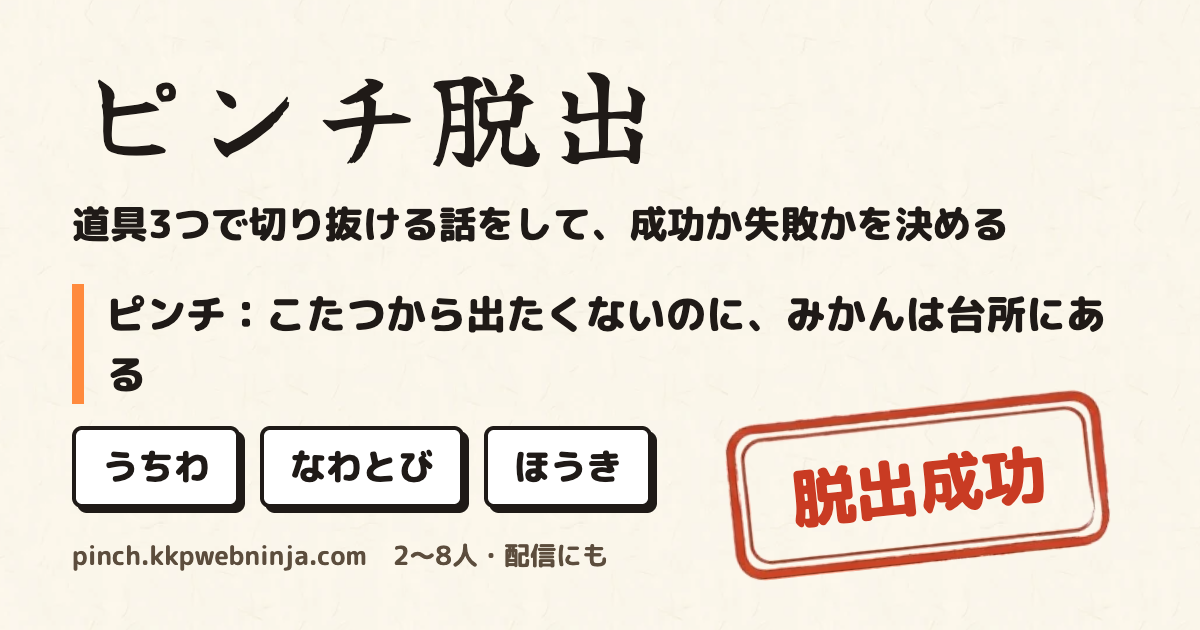
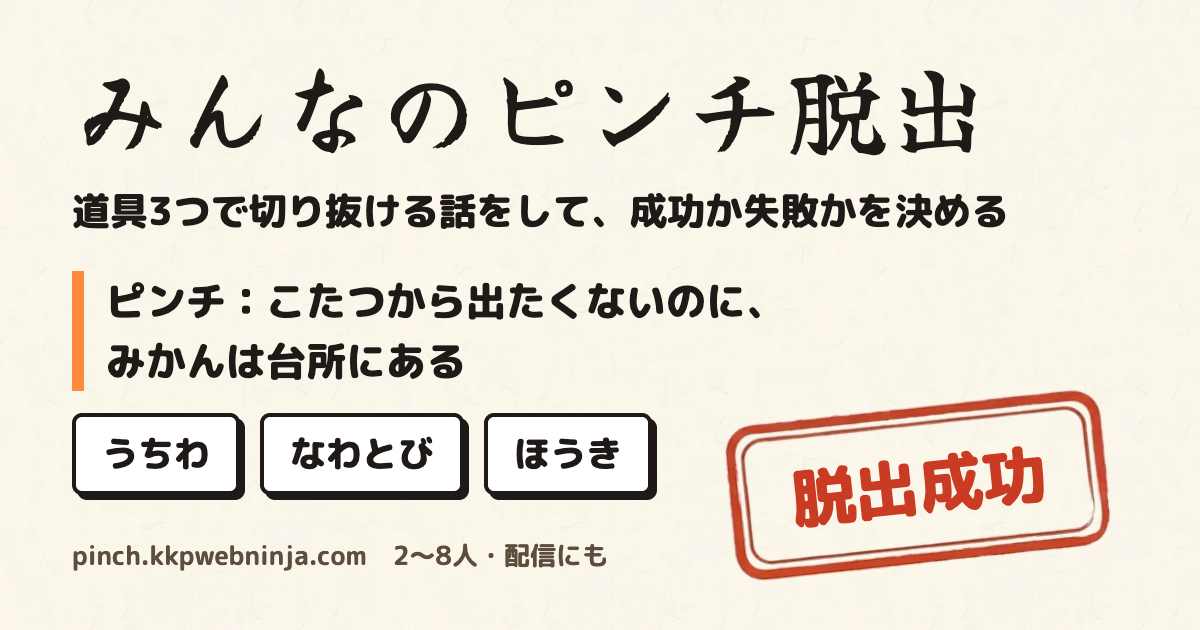
サイト名を「みんなのピンチ脱出」に・道具名の折れ方・配信の操作ページの字を14px以上に
- title/description/og/twitter/JSON-LD/h1/ヘッダー/haishin/view/ogp.png を「みんなのピンチ脱出」にそろえた
- 道具名は word-break:keep-all ＋ 折り目（odai.js の BR 表で <wbr>）。入らないときだけ字を小さくする
- 配信モードの操作ページを幅960で組み直し（設定は2列・結果は行を詰めた）。4サイズとも主な字14px以上・1画面

diff --git a/index.html b/index.html
@@ -3,8 +3,8 @@
 <head>
 <meta charset="UTF-8">
 <meta name="viewport" content="width=device-width, initial-scale=1.0">
-<title>ピンチ脱出ゲーム｜場面と道具3つで切り抜ける話をする・お題80場面（無料）</title>
-<meta name="description" content="ピンチ脱出ゲームを無料で。ピンチの場面と使える道具3つが出たら、道具で切り抜ける話をして、聞いた人が「成功／失敗」を決めます。場面80・道具120（定番・学校・おうち・年末年始・ファンタジー）。2〜8人でスマホを回して遊べて、配信ではOBSに映せます。登録不要。">
+<title>みんなのピンチ脱出｜場面と道具3つで切り抜ける話をするゲーム（無料）</title>
+<meta name="description" content="みんなのピンチ脱出は、ピンチの場面と使える道具3つで切り抜ける話をして、聞いた人が「成功／失敗」を決める無料のゲームです。場面80・道具120（定番・学校・おうち・年末年始・ファンタジー）。2〜8人でスマホを回して遊べて、配信ではOBSに映せます。登録不要。">
 <meta name="theme-color" content="#ff8a3d">
 <link rel="canonical" href="https://pinch.kkpwebninja.com/">
 <!-- WEBNINJA_UNIFIED_FAVICON -->
@@ -12,20 +12,21 @@
 <link rel="icon" type="image/png" sizes="192x192" href="/favicon-192.png">
 <link rel="apple-touch-icon" sizes="180x180" href="/apple-touch-icon.png">
 
-<meta property="og:title" content="ピンチ脱出ゲーム｜道具3つで切り抜ける話をする">
+<meta property="og:title" content="みんなのピンチ脱出｜道具3つで切り抜ける話をする">
 <meta property="og:description" content="ピンチの場面と道具3つで脱出の話をして、聞いた人が成功か失敗かを決める。場面80・道具120。2〜8人・配信にも。">
 <meta property="og:type" content="website">
 <meta property="og:url" content="https://pinch.kkpwebninja.com/">
-<meta property="og:site_name" content="ピンチ脱出">
+<meta property="og:site_name" content="みんなのピンチ脱出">
 <meta property="og:image" content="https://pinch.kkpwebninja.com/ogp.png?d=20261021">
 <meta name="twitter:card" content="summary_large_image">
+<meta name="twitter:title" content="みんなのピンチ脱出｜道具3つで切り抜ける話をする">
 <meta name="twitter:image" content="https://pinch.kkpwebninja.com/ogp.png?d=20261021">
 
 <script type="application/ld+json">
 {
   "@context": "https://schema.org",
   "@type": "WebApplication",
-  "name": "ピンチ脱出",
+  "name": "みんなのピンチ脱出",
   "url": "https://pinch.kkpwebninja.com/",
   "description": "ピンチの場面と使える道具3つが出る。道具で切り抜ける話をして、聞いた人が成功か失敗かを決める話のゲーム。2〜8人でスマホを回すか、配信でOBSに映して遊ぶ。",
   "applicationCategory": "GameApplication",
@@ -149,8 +150,7 @@ h1.pc-h1{margin:24px 0 8px;font-family:var(--k-brush);font-weight:400;font-size:
 .pc-scene p.wait{font-family:var(--k-body);font-size:16px;font-weight:700;color:var(--k-text-2);min-height:0}
 .pc-toolh{display:flex;align-items:flex-end;justify-content:space-between;gap:8px;margin-bottom:6px}
 .pc-tools{display:grid;grid-template-columns:repeat(3,minmax(0,1fr));gap:8px}
-.pc-tool{display:grid;place-items:center;min-height:72px;padding:6px;border:2px solid var(--k-sumi);border-radius:var(--k-r);background:#fff;font-family:var(--k-bold);font-size:17px;line-height:1.25;text-align:center;word-break:auto-phrase;overflow-wrap:anywhere}
-.pc-tool.long{font-size:15px}
+.pc-tool{display:grid;place-items:center;min-height:72px;padding:6px;border:2px solid var(--k-sumi);border-radius:var(--k-r);background:#fff;font-family:var(--k-bold);font-size:17px;line-height:1.25;text-align:center;word-break:keep-all;overflow-wrap:normal}
 .pc-tool.q{color:var(--k-text-2);background:var(--k-kinari)}
 .pc-link{min-height:44px;padding:0 4px;border:0;background:none;color:var(--k-sumi);font:inherit;font-size:14px;font-weight:700;text-decoration:underline;text-underline-offset:3px;cursor:pointer}
 .pc-link[disabled]{color:var(--k-text-2);text-decoration:none;cursor:default}
@@ -209,7 +209,6 @@ h1.pc-h1{margin:24px 0 8px;font-family:var(--k-brush);font-weight:400;font-size:
   .pc-names{grid-template-columns:1fr 1fr 1fr 1fr}
   .pc-scene p{font-size:26px}
   .pc-tool{font-size:19px;min-height:84px}
-  .pc-tool.long{font-size:18px}
   h1.pc-h1{font-size:38px}
 }
 @media (max-width:767px){
@@ -231,12 +230,25 @@ h1.pc-h1{margin:24px 0 8px;font-family:var(--k-brush);font-weight:400;font-size:
 body.stream .pc-about,body.stream #uniFoot,body.stream .pc-adwrap{display:none!important}
 body.stream #app{zoom:var(--z,1)}
 body.stream .pc-start{position:static;margin:16px 0 0;padding:0;border:0;background:none}
-body.stream.in-game #app{width:1200px;max-width:none;margin:0 auto}
+body.stream #app{width:960px;max-width:none;margin:0 auto;box-sizing:border-box}
+/* 設定は2列（左：遊び方・タイトル／右：お題・話の数）。字は14px以上のまま、960x740 で縮めずに入る高さ */
+body.stream #setup{display:grid;grid-template-columns:1fr 1fr;column-gap:32px;align-items:start}
+body.stream #setup>h1,body.stream #setup>.pc-lead,body.stream #resumeBox,body.stream #streamBox,body.stream #setup>.pc-start{grid-column:1/-1}
+body.stream #setup h1.pc-h1{margin:14px 0 4px}
+body.stream #setup .pc-lead{margin:0 0 4px}
+body.stream #setup .pc-sec{margin:12px 0 0}
+body.stream #streamBox{margin:16px 0 0;padding:10px 0}
+body.stream .pc-start{margin:12px 0 0}
+/* 結果：7話でも縮めずに入るよう行を詰める */
+body.stream .pc-res .k-result{margin:8px 0 4px}
+body.stream .pc-com{margin:0 0 8px}
+body.stream .pc-rh{margin:8px 0 0}
+body.stream .pc-log button{min-height:44px;padding:2px 4px}
+body.stream .pc-acts{margin:12px 0 0}
 body.stream.in-game .pc-top{display:none}
-body.stream.in-game .pc-grid{display:grid;grid-template-columns:1.35fr 1fr;gap:32px;align-items:start;padding-top:8px}
+body.stream.in-game .pc-grid{display:grid;grid-template-columns:1.4fr 1fr;gap:24px;align-items:start;padding-top:8px}
 body.stream.in-game .pc-scene p{font-size:30px}
 body.stream.in-game .pc-tool{font-size:22px;min-height:96px}
-body.stream.in-game .pc-tool.long{font-size:20px}
 body.stream .pc-bar{position:static;margin:16px 0 8px;padding:0;border:0;background:none}
 body.stream .pc-colB{padding-top:16px}
 .pc-titleshow{margin:0 0 4px;font-family:var(--k-bold);font-size:18px}
@@ -247,11 +259,11 @@ body.stream .pc-colB{padding-top:16px}
 </head>
 <body class="k-page">
 <div class="pc-wrap" id="app">
-  <header class="pc-top"><a href="/">ピンチ脱出</a><small id="modeTag">登録不要・無料</small></header>
+  <header class="pc-top"><a href="/">みんなのピンチ脱出</a><small id="modeTag">登録不要・無料</small></header>
 
   <!-- ===== 設定 ===== -->
   <section id="setup">
-    <h1 class="pc-h1">ピンチ脱出</h1>
+    <h1 class="pc-h1">みんなのピンチ脱出</h1>
     <p class="pc-lead" id="lead">ピンチの場面と道具3つが出ます。道具で切り抜ける話をして、聞いた人が「成功」か「失敗」を決めます。</p>
     <div class="pc-resume" id="resumeBox" hidden><p id="resumeT"></p><button type="button" class="k-btn k-btn-main k-btn-sm" id="resumeGo">続きから</button><button type="button" class="k-btn k-btn-sub k-btn-sm" id="resumeDel">消して新しく</button></div>
 
@@ -347,7 +359,7 @@ body.stream .pc-colB{padding-top:16px}
 
   <!-- ===== 読みもの（設定の画面・ふだんのモードだけ） ===== -->
   <article class="pc-about" id="about">
-    <h2 class="k-h2">ピンチ脱出の遊び方</h2>
+    <h2 class="k-h2">みんなのピンチ脱出の遊び方</h2>
     <ol class="k-steps">
       <li><b>ピンチを出す。</b>場面と、使える道具が3つ出ます。</li>
       <li><b>脱出の話をする。</b>話す人が、道具を使ってどう切り抜けたかを1〜2分で話します。道具は全部使わなくてもかまいません。</li>
@@ -637,7 +649,8 @@ body.stream .pc-colB{padding-top:16px}
       $('gTools').innerHTML = '<div class="pc-tool q">？</div><div class="pc-tool q">？</div><div class="pc-tool q">？</div>';
     } else {
       sc.className = ''; sc.textContent = sceneText(G.scene);
-      $('gTools').innerHTML = G.tools.map(function(t){ return '<div class="pc-tool' + (String(t).length >= 6 ? ' long' : '') + '">' + esc(t) + '</div>'; }).join('');
+      $('gTools').innerHTML = G.tools.map(function(t){ return '<div class="pc-tool">' + window.PC_toolHtml(t) + '</div>'; }).join('');
+      fitTools();
       if (lastTk !== G.tk) { [].forEach.call($('gTools').children, function(el){ reveal(el, 'k-reveal-fuda'); }); }
     }
     lastTk = G.tk;
@@ -727,11 +740,14 @@ body.stream .pc-colB{padding-top:16px}
   function fit(){
     var r = document.documentElement;
     if (!S.stream || innerWidth < 768) { r.style.removeProperty('--z'); return; }
-    var base = SCREEN === 'setup' ? 760 : 1240;
+    var base = 960; // 配信モードは幅960で組む（960x740 で縮めず、字が14px以上）
     var z = Math.min(innerWidth / base, 1.5); r.style.setProperty('--z', z.toFixed(3));
     for (var i = 0; i < 40 && r.scrollHeight > innerHeight + 1 && z > 0.3; i++) { z *= 0.96; r.style.setProperty('--z', z.toFixed(3)); }
   }
-  window.addEventListener('resize', function(){ clearTimeout(fit.t); fit.t = setTimeout(fit, 120); });
+  window.addEventListener('resize', function(){ clearTimeout(fit.t); fit.t = setTimeout(function(){ fitTools(); fit(); }, 120); });
+  // 道具の字：2行に入らない・幅をはみ出すときだけ小さくする（14pxまで）
+  function fitTools(){ if (G && G.phase !== 'ready') window.PC_fitTools($('gTools').children, 2, 14, 1); }
+  if (document.fonts && document.fonts.ready) document.fonts.ready.then(function(){ fitTools(); fit(); });
 
   // ===== はじめに =====
   if (S.stream) { document.body.classList.add('stream'); $('modeTag').textContent = '配信モード（広告なし）'; }

diff --git a/haishin/index.html b/haishin/index.html
@@ -3,19 +3,20 @@
 <head>
 <meta charset="UTF-8">
 <meta name="viewport" content="width=device-width, initial-scale=1">
-<title>配信・実況でピンチ脱出ゲームをする方法｜押すのは3回・OBSに映せる（無料）</title>
+<title>配信・実況でみんなのピンチ脱出を遊ぶ方法｜押すのは3回・OBSに映せる（無料）</title>
 <meta name="description" content="雑談配信のコーナーで、ピンチの場面と道具3つから脱出の話をして、リスナーがコメントで成功か失敗かを決める遊び方。押すのは「ピンチを出す」「判定タイムにする」「ハンコ」の3回。表示ページをOBSに取り込めます。広告なし・登録不要。">
 <link rel="canonical" href="https://pinch.kkpwebninja.com/haishin/">
-<meta property="og:title" content="配信・実況でピンチ脱出ゲームをする方法">
+<meta property="og:title" content="配信・実況でみんなのピンチ脱出を遊ぶ方法">
 <meta property="og:description" content="ピンチの場面と道具3つで脱出の話をして、リスナーがコメントで判定。押すのは3回・OBSに映せる。">
 <meta property="og:type" content="article">
 <meta property="og:url" content="https://pinch.kkpwebninja.com/haishin/">
-<meta property="og:site_name" content="ピンチ脱出">
+<meta property="og:site_name" content="みんなのピンチ脱出">
 <meta property="og:image" content="https://pinch.kkpwebninja.com/ogp.png?d=20261021">
 <meta name="twitter:card" content="summary_large_image">
+<meta name="twitter:title" content="配信・実況でみんなのピンチ脱出を遊ぶ方法">
 <link rel="icon" type="image/png" sizes="32x32" href="/favicon.png">
 <link rel="apple-touch-icon" sizes="180x180" href="/apple-touch-icon.png">
-<script type="application/ld+json">{"@context":"https://schema.org","@type":"Article","headline":"配信・実況でピンチ脱出ゲームをする方法","datePublished":"2026-10-21","dateModified":"2026-10-21","author":{"@type":"Organization","name":"web忍者の砦"},"publisher":{"@type":"Organization","name":"web忍者の砦"},"mainEntityOfPage":"https://pinch.kkpwebninja.com/haishin/"}</script>
+<script type="application/ld+json">{"@context":"https://schema.org","@type":"Article","headline":"配信・実況でみんなのピンチ脱出を遊ぶ方法","datePublished":"2026-10-21","dateModified":"2026-10-21","author":{"@type":"Organization","name":"web忍者の砦"},"publisher":{"@type":"Organization","name":"web忍者の砦"},"mainEntityOfPage":"https://pinch.kkpwebninja.com/haishin/"}</script>
 <script async src="https://www.googletagmanager.com/gtag/js?id=G-2LM85GJN0L"></script>
 <script>
   window.dataLayer = window.dataLayer || [];
@@ -55,7 +56,7 @@ a{color:#1565c0}
 <body class="k-page">
 <div class="wrap">
 
-<h1>配信・実況で使う方へ<span class="c">ピンチ脱出</span></h1>
+<h1>配信・実況で使う方へ<span class="c">みんなのピンチ脱出</span></h1>
 <p class="upd">更新日 <time datetime="2026-10-21">2026-10-21</time></p>
 <p class="lead">雑談配信の10〜15分のコーナー向けです。ピンチの場面と道具3つが出たら、配信者が脱出の話をして、リスナーがコメントで「成功」か「失敗」を決めます。インストールも登録もいりません。</p>
 
@@ -67,7 +68,7 @@ a{color:#1565c0}
 <h2>配信の前に（1分）</h2>
 <ol class="steps">
 <li>パソコンで <a href="https://pinch.kkpwebninja.com/?mode=stream">pinch.kkpwebninja.com/?mode=stream</a> を開きます（遊び方で「配信する」を選んでも同じ）。広告が消えます</li>
-<li>タイトル（「〇〇のピンチ脱出」の〇〇）、お題の種類、話の数（はじめは5話）を決めます</li>
+<li>タイトル（「〇〇のピンチ脱出」の〇〇。空なら「みんな」）、お題の種類、話の数（はじめは5話）を決めます</li>
 <li>「表示ページを別ウィンドウで開く」を押し、OBS の<b>「ウィンドウキャプチャ」</b>でそのウィンドウを取り込みます。表示ページは最小化しないでください（止まります）。OBS の「ブラウザソース」では操作の画面とつながりません</li>
 </ol>
 
@@ -89,7 +90,7 @@ a{color:#1565c0}
 <h2>配信で使うときの条件</h2>
 <p>許諾の申請はいりません。収益化もできます。概要欄にサイト名「web忍者の砦」とURL（https://pinch.kkpwebninja.com/）を書いてください。使うときは<a href="https://kkpwebninja.com/otoiawase" target="_blank" rel="noopener">お問い合わせ</a>か X（<a href="https://x.com/kkp_webninja" target="_blank" rel="noopener">@kkp_webninja</a>）で一言いただけると助かります。ご要望があれば、優先してアップデートします。くわしくは<a href="https://kkpwebninja.com/guidelines">配信・紹介・掲載のガイドライン</a>へ。場面と道具はすべてこのサイトのオリジナルです。</p>
 
-<p style="margin-top:2rem"><a class="cta" href="https://pinch.kkpwebninja.com/">ピンチ脱出を開く</a></p>
+<p style="margin-top:2rem"><a class="cta" href="https://pinch.kkpwebninja.com/">みんなのピンチ脱出を開く</a></p>
 
 </div>
 <!-- WEBNINJA_UNIFIED_FOOTER -->

diff --git a/view/index.html b/view/index.html
@@ -4,7 +4,7 @@
 <meta charset="UTF-8">
 <meta name="viewport" content="width=device-width, initial-scale=1.0">
 <meta name="robots" content="noindex">
-<title>ピンチ脱出 配信表示</title>
+<title>みんなのピンチ脱出 配信表示</title>
 <link rel="icon" type="image/png" sizes="32x32" href="/favicon.png">
 <link rel="preconnect" href="https://fonts.googleapis.com">
 <link rel="preconnect" href="https://fonts.gstatic.com" crossorigin>
@@ -14,6 +14,7 @@
 <!-- k-fonts:end -->
 <link rel="stylesheet" href="/kit/kit.css">
 <script src="/kit/kit.js" defer></script>
+<script src="/js/odai.js"></script>
 <!-- OBS 表示ページ。広告・GA4 なし。操作ページ（同じブラウザ）から BroadcastChannel で今の場面だけ受け取る。
      1600x900 で組んだ舞台を、ウィンドウに合わせて縮める（どのサイズでもスクロールなし）。
      字はすべて舞台の上で42px以上（1/3に縮めても14px相当）。 -->
@@ -35,8 +36,7 @@ html,body{margin:0;height:100%;overflow:hidden;background:var(--k-kinari)}
 .scene.sm{font-size:62px}
 .tools{display:grid;grid-template-columns:repeat(3,minmax(0,1fr));gap:28px;margin-top:10px}
 .tool{display:grid;place-items:center;height:168px;padding:8px 18px;box-sizing:border-box;border:5px solid var(--k-sumi);border-radius:12px;background:#fff;font-family:var(--k-bold);font-size:64px;line-height:1.15;text-align:center;word-break:auto-phrase;text-wrap:balance;box-shadow:6px 6px 0 var(--k-sumi)}
-.tool{overflow-wrap:anywhere}
-.tool.long{font-size:54px}
+.tool{word-break:keep-all;overflow-wrap:normal}
 .tool.q{color:var(--k-text-2);background:var(--k-kinari);box-shadow:none}
 .call{margin-top:26px;font-family:var(--k-bold);font-size:56px;line-height:1.25;text-align:center}
 .call.sub{font-family:var(--k-body);font-weight:800;font-size:46px;color:var(--k-text-2)}
@@ -65,7 +65,7 @@ html,body{margin:0;height:100%;overflow:hidden;background:var(--k-kinari)}
 </head>
 <body>
 <div id="stage">
-  <div class="top"><span class="ttl" id="ttl">ピンチ脱出</span><span class="score" id="score"></span></div>
+  <div class="top"><span class="ttl" id="ttl">みんなのピンチ脱出</span><span class="score" id="score"></span></div>
   <span class="tag" id="tag" hidden></span>
   <div class="main" id="main"></div>
   <div id="veil" hidden></div>
@@ -79,10 +79,13 @@ html,body{margin:0;height:100%;overflow:hidden;background:var(--k-kinari)}
   window.addEventListener('resize', fit); fit();
   function reveal(el, cls){ if (el && window.KKit && KKit.reveal) { el.classList.add(cls); KKit.reveal(el); } }
   var lastTk = null, lastStamp = null, lastPhase = '';
-  function toolHtml(t){ return '<div class="tool' + (String(t).length >= 7 ? ' long' : '') + '">' + esc(t) + '</div>'; }
+  function toolHtml(t){ return '<div class="tool">' + window.PC_toolHtml(t) + '</div>'; }
+  // 道具の字：2行に入らない・幅をはみ出すときだけ小さくする（42pxまで）
+  function fitTools(){ var v = $('vTools'); if (v) window.PC_fitTools(v.children, 2, 42, 2); }
+  if (document.fonts && document.fonts.ready) document.fonts.ready.then(fitTools);
   function render(s){
     if (!s) s = { screen: 'setup', title: 'みんなのピンチ脱出' };
-    var tt = s.title || 'ピンチ脱出';
+    var tt = s.title || 'みんなのピンチ脱出';
     $('ttl').textContent = tt; $('ttl').className = 'ttl' + (tt.length > 16 ? ' s' : tt.length > 12 ? ' m' : '');
     var main = $('main'), tag = $('tag'), hk = $('hanko');
     var inGame = s.screen === 'game' && s.phase && s.phase !== 'ready';
@@ -100,7 +103,7 @@ html,body{margin:0;height:100%;overflow:hidden;background:var(--k-kinari)}
     }
     if (!inGame) {
       tag.textContent = 'はじまるよ';
-      main.innerHTML = '<div class="idle"><div class="big">' + esc(s.title || 'ピンチ脱出') + '</div><p>ピンチの場面と、使える道具が3つ出ます。<br>配信者が脱出の話をしたら、<br>「成功」か「失敗」をコメントしてね。</p></div>';
+      main.innerHTML = '<div class="idle"><div class="big">' + esc(tt) + '</div><p>ピンチの場面と、使える道具が3つ出ます。<br>配信者が脱出の話をしたら、<br>「成功」か「失敗」をコメントしてね。</p></div>';
       hk.hidden = true; $('veil').hidden = true; lastPhase = 'idle'; lastTk = null;
       return;
     }
@@ -112,6 +115,7 @@ html,body{margin:0;height:100%;overflow:hidden;background:var(--k-kinari)}
     var newTools = lastTk !== s.tk;
     main.innerHTML = '<div class="lrow"><div class="lbl">ピンチ</div>' + tag.outerHTML.replace(' hidden=""', '').replace('id="tag"', '') + '</div><div class="scene' + (sc.length > 26 ? ' sm' : '') + '" id="vScene">' + esc(sc) + '</div>'
       + '<div class="lbl" style="margin-top:18px">使える道具</div><div class="tools" id="vTools">' + (s.tools || []).map(toolHtml).join('') + '</div>' + call;
+    fitTools();
     if (newTools) { [].forEach.call($('vTools').children, function(el, k){ el.style.animationDelay = (k * 0.12) + 's'; reveal(el, 'k-reveal-fuda'); }); }
     lastTk = s.tk;
     if (s.phase === 'stamp') {

diff --git a/js/odai.js b/js/odai.js
@@ -104,6 +104,37 @@
     ]
   };
 
+  // 道具の名前の折り目（「|」の所でだけ折れる。画面は word-break:keep-all）。ここに無い名前は折らずに、入らなければ字を小さくする
+  var BR = ['ガム|テープ', '折りたたみ|傘', '洗濯|ばさみ', 'ペット|ボトル', '紙|ひこうき', '方位|磁石', '紙|コップ', '植木|ばち', '腕|時計',
+    '三角|定規', '黒板|消し', '給食|当番の|帽子', '絵の具|セット', '鍵盤|ハーモニカ', '連絡|帳', '体育|帽',
+    '洗濯|かご', '孫の|手', 'トイレット|ペーパー', '目覚まし|時計', '物干し|ざお', '生|たまご', '炊飯|器',
+    '鏡|もち', '年賀|はがき', 'しめ|飾り', '雪|だるま', 'クリスマス|ツリー', 'サンタの|帽子', 'くす|玉', '獅子舞の|頭', '手|ぶくろ',
+    '魔法の|つえ', '空飛ぶ|じゅうたん', '透明|マント', '宝の|地図', 'ドラゴンの|たまご', '何でも|入る|つぼ', '話す|カエル', '光る|石',
+    '時間を|戻す|砂時計', '小人の|家来', 'しゃべる|鏡', '雲の|わたあめ', '巨人の|くつ下', '忍者の|けむり玉', 'どこまでも|伸びる|ぼう', '魔法の|ランプ',
+    '妖精の|こな', 'ロボット|犬', 'なぞの|ボタン', '人魚の|うろこ'];
+  var BRMAP = {};
+  BR.forEach(function(b){ BRMAP[b.replace(/\|/g, '')] = b; });
+  window.PC_TOOL_BR = BRMAP;
+  function esc(t){ return String(t == null ? '' : t).replace(/[&<>"']/g, function(c){ return { '&':'&amp;','<':'&lt;','>':'&gt;','"':'&quot;',"'":'&#39;' }[c]; }); }
+  // 道具1つ分の中身（折り目に <wbr>）
+  window.PC_toolHtml = function(t){ t = String(t == null ? '' : t); return '<span>' + (BRMAP[t] || t).split('|').map(esc).join('<wbr>') + '</span>'; };
+  // 枠に入るまで字を小さくする（幅・高さをはみ出す・maxLines 行をこえるとき）。min より小さくはしない
+  window.PC_fitTools = function(els, maxLines, min, step){
+    [].forEach.call(els, function(el){
+      var sp = el.firstElementChild; if (!sp) return;
+      el.style.fontSize = '';
+      var cs = getComputedStyle(el), fs = parseFloat(cs.fontSize);
+      for (var i = 0; i < 30; i++) {
+        var w = el.clientWidth - parseFloat(cs.paddingLeft) - parseFloat(cs.paddingRight);
+        var lh = parseFloat(getComputedStyle(sp).lineHeight) || fs * 1.25;
+        var h = el.clientHeight - parseFloat(cs.paddingTop) - parseFloat(cs.paddingBottom);
+        var lines = Math.round(sp.offsetHeight / lh);
+        if ((lines <= maxLines && sp.offsetWidth <= w + 0.5 && sp.offsetHeight <= h + 0.5) || fs - step < min) break;
+        fs -= step; el.style.fontSize = fs + 'px';
+      }
+    });
+  };
+
   window.PC_TOOLS = {
     common: [
       '輪ゴム', 'うちわ', '懐中電灯', 'ガムテープ', 'ふろしき', '鉛筆', 'ハーモニカ', 'けん玉',
